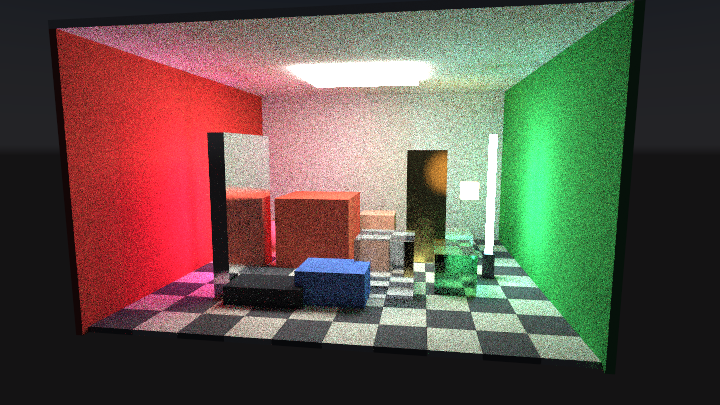
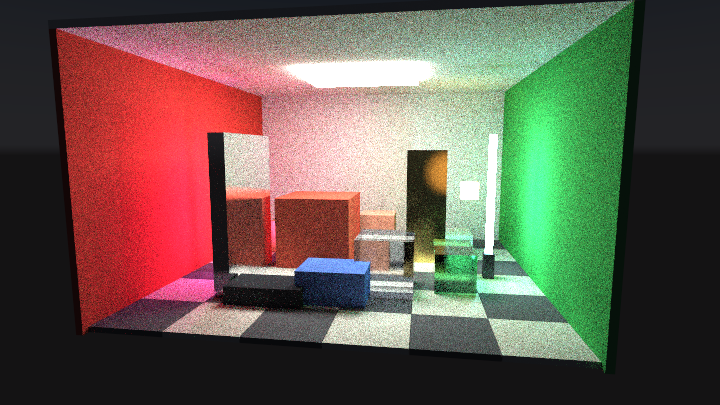
Accumulate 48 spp per still batch and refresh Materials diorama still.

Changed region(s): [[0.0917, 0.0, 0.8861, 0.8889]]

diff --git a/labs/rendering/SilkTraceStudio/Program.cs b/labs/rendering/SilkTraceStudio/Program.cs
@@ -15,13 +15,14 @@ internal static class Program
     // Measured ~90 blitHz at 8 spp / 640x360 → ~22 Hz at 32 spp (more kernel work per DMA tax).
     private const int MovingPreviewSamplesGpu = 32;
     private const int MovingPreviewSamplesCpu = 4;
-    private const int AccumulateSamplesPerBatchGpu = 8;
-    private const int AccumulateSamplesPerBatchCpu = 2;
+    // Still frames: fat GPU batches amortize ~500ms readback at 960x540 (blitHz≈2 at 8spp was too thin).
+    private const int AccumulateSamplesPerBatchGpu = 48;
+    private const int AccumulateSamplesPerBatchCpu = 4;
     private const int MovingTraceMaxWidth = 640;
     private const int MovingTraceMaxHeight = 360;
     private const float MovingSettleSeconds = 0.15f;
     private const float AutoOrbitRadiansPerSecond = 0.35f;
-    private const int MaxProgressiveSamples = 512;
+    private const int MaxProgressiveSamples = 2048;
     private const float MouseLookSensitivity = 0.004f;
     private const float ScrollZoomFactor = 0.12f;
     private const float DefaultDistance = 2.45f;

diff --git a/labs/rendering/SilkTraceStudio/README.md b/labs/rendering/SilkTraceStudio/README.md
@@ -2,7 +2,7 @@
 
 Studio-style path-tracing showcase over **Novolis.Rendering.PathTrace.Demos** (Cpu / Ilgpu / Vulkan), **Novolis.Silk**, and **Novolis.Simulation.View**.
 
-The default scene is an open-face diorama box: red/green side walls, checkered floor, ceiling panel light, and a mix of matte, metal, glass, and emissive props so bounce light is visible.
+The default scene is the **Materials capability diorama**: every `MaterialPresets.Showcase` look (Cornell walls, checker tiles, matte/metal/glass/skin, cyan lightsaber + magenta neon, softbox) compiled through `Novolis.Rendering.Materials` → path-trace NEE.
 
 ## Fast local run
 
